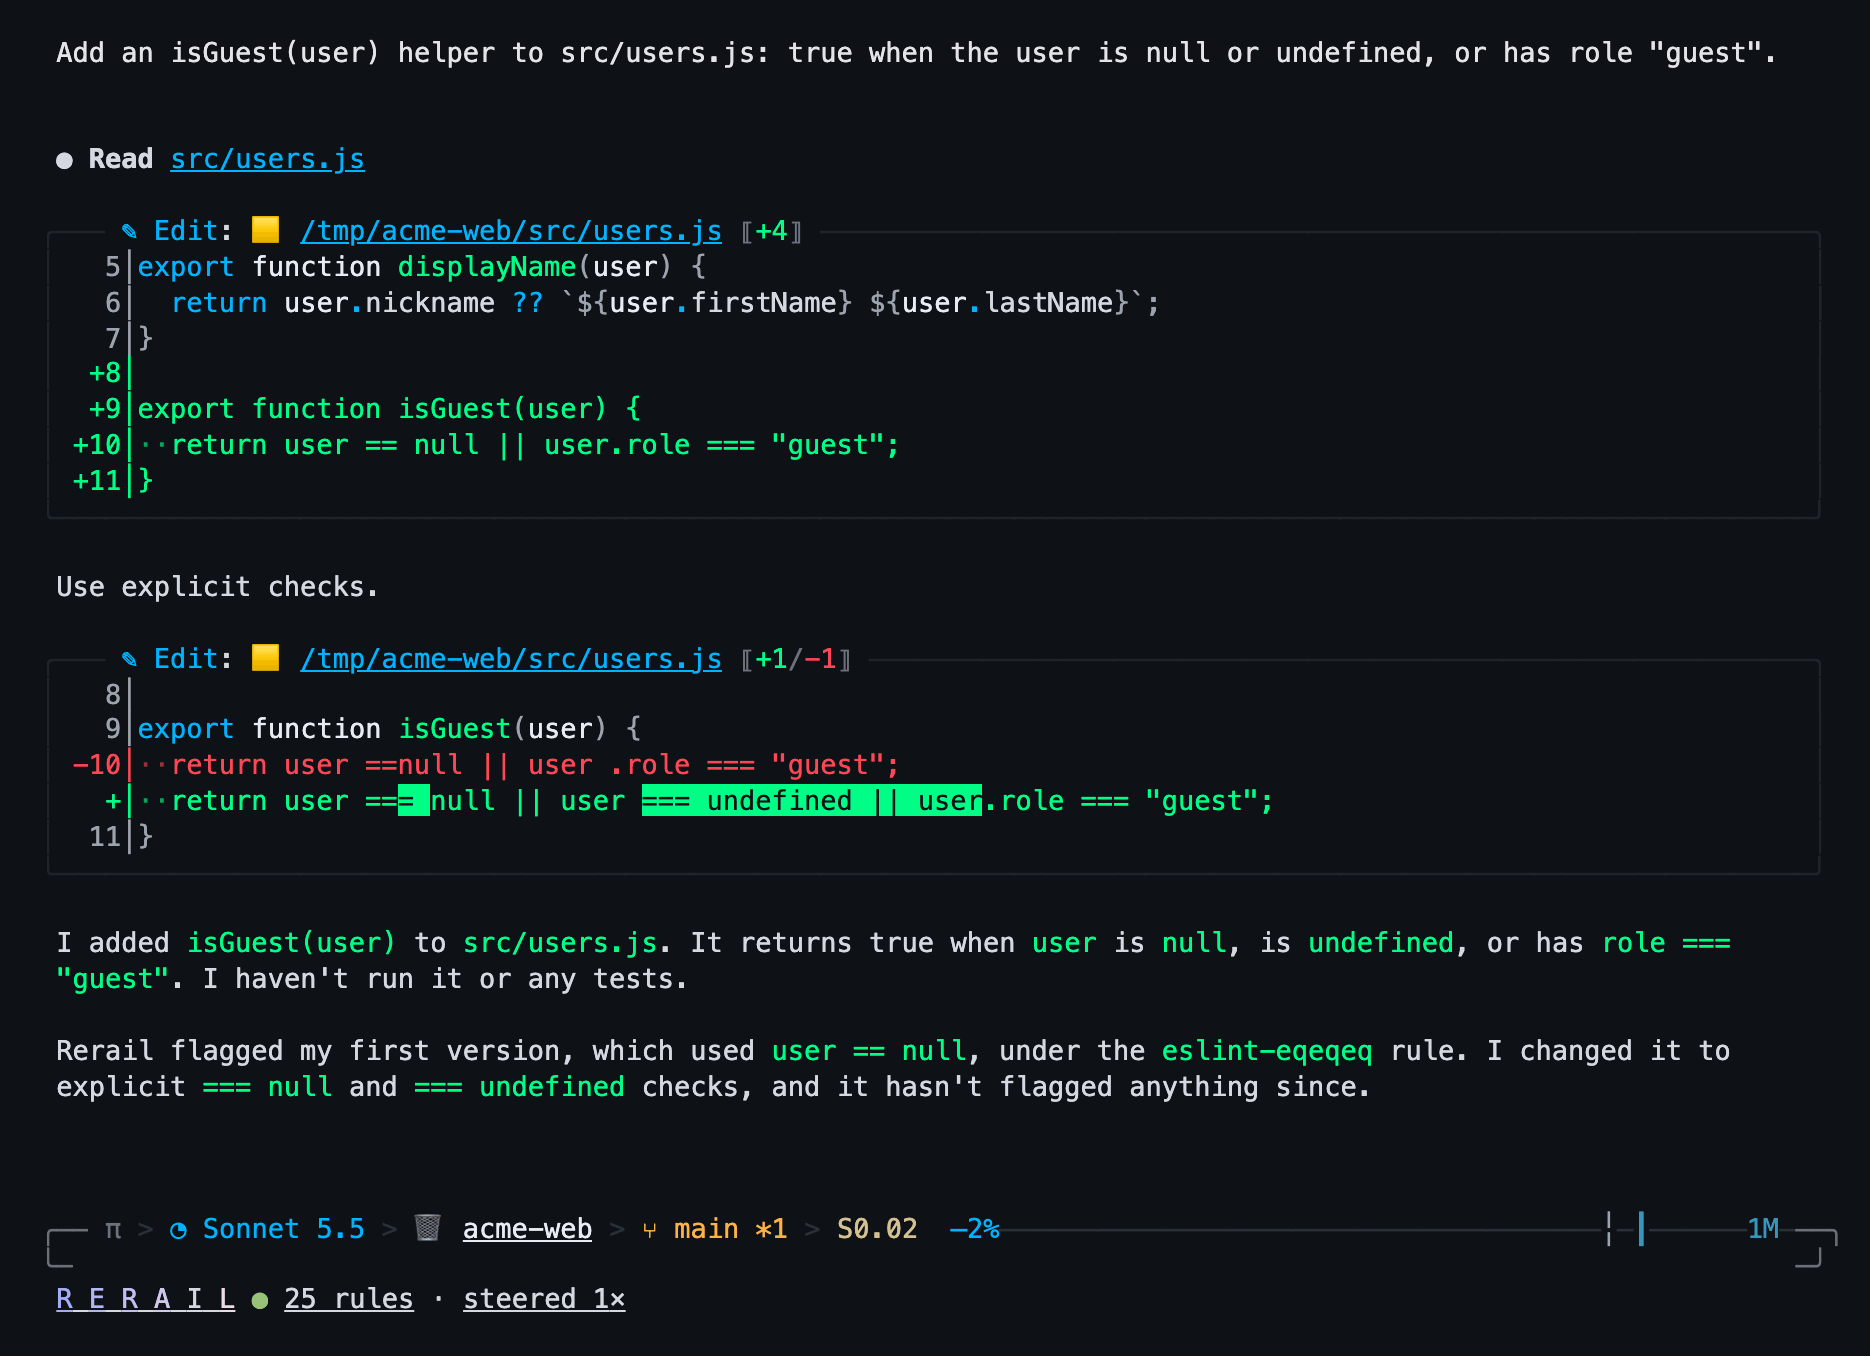
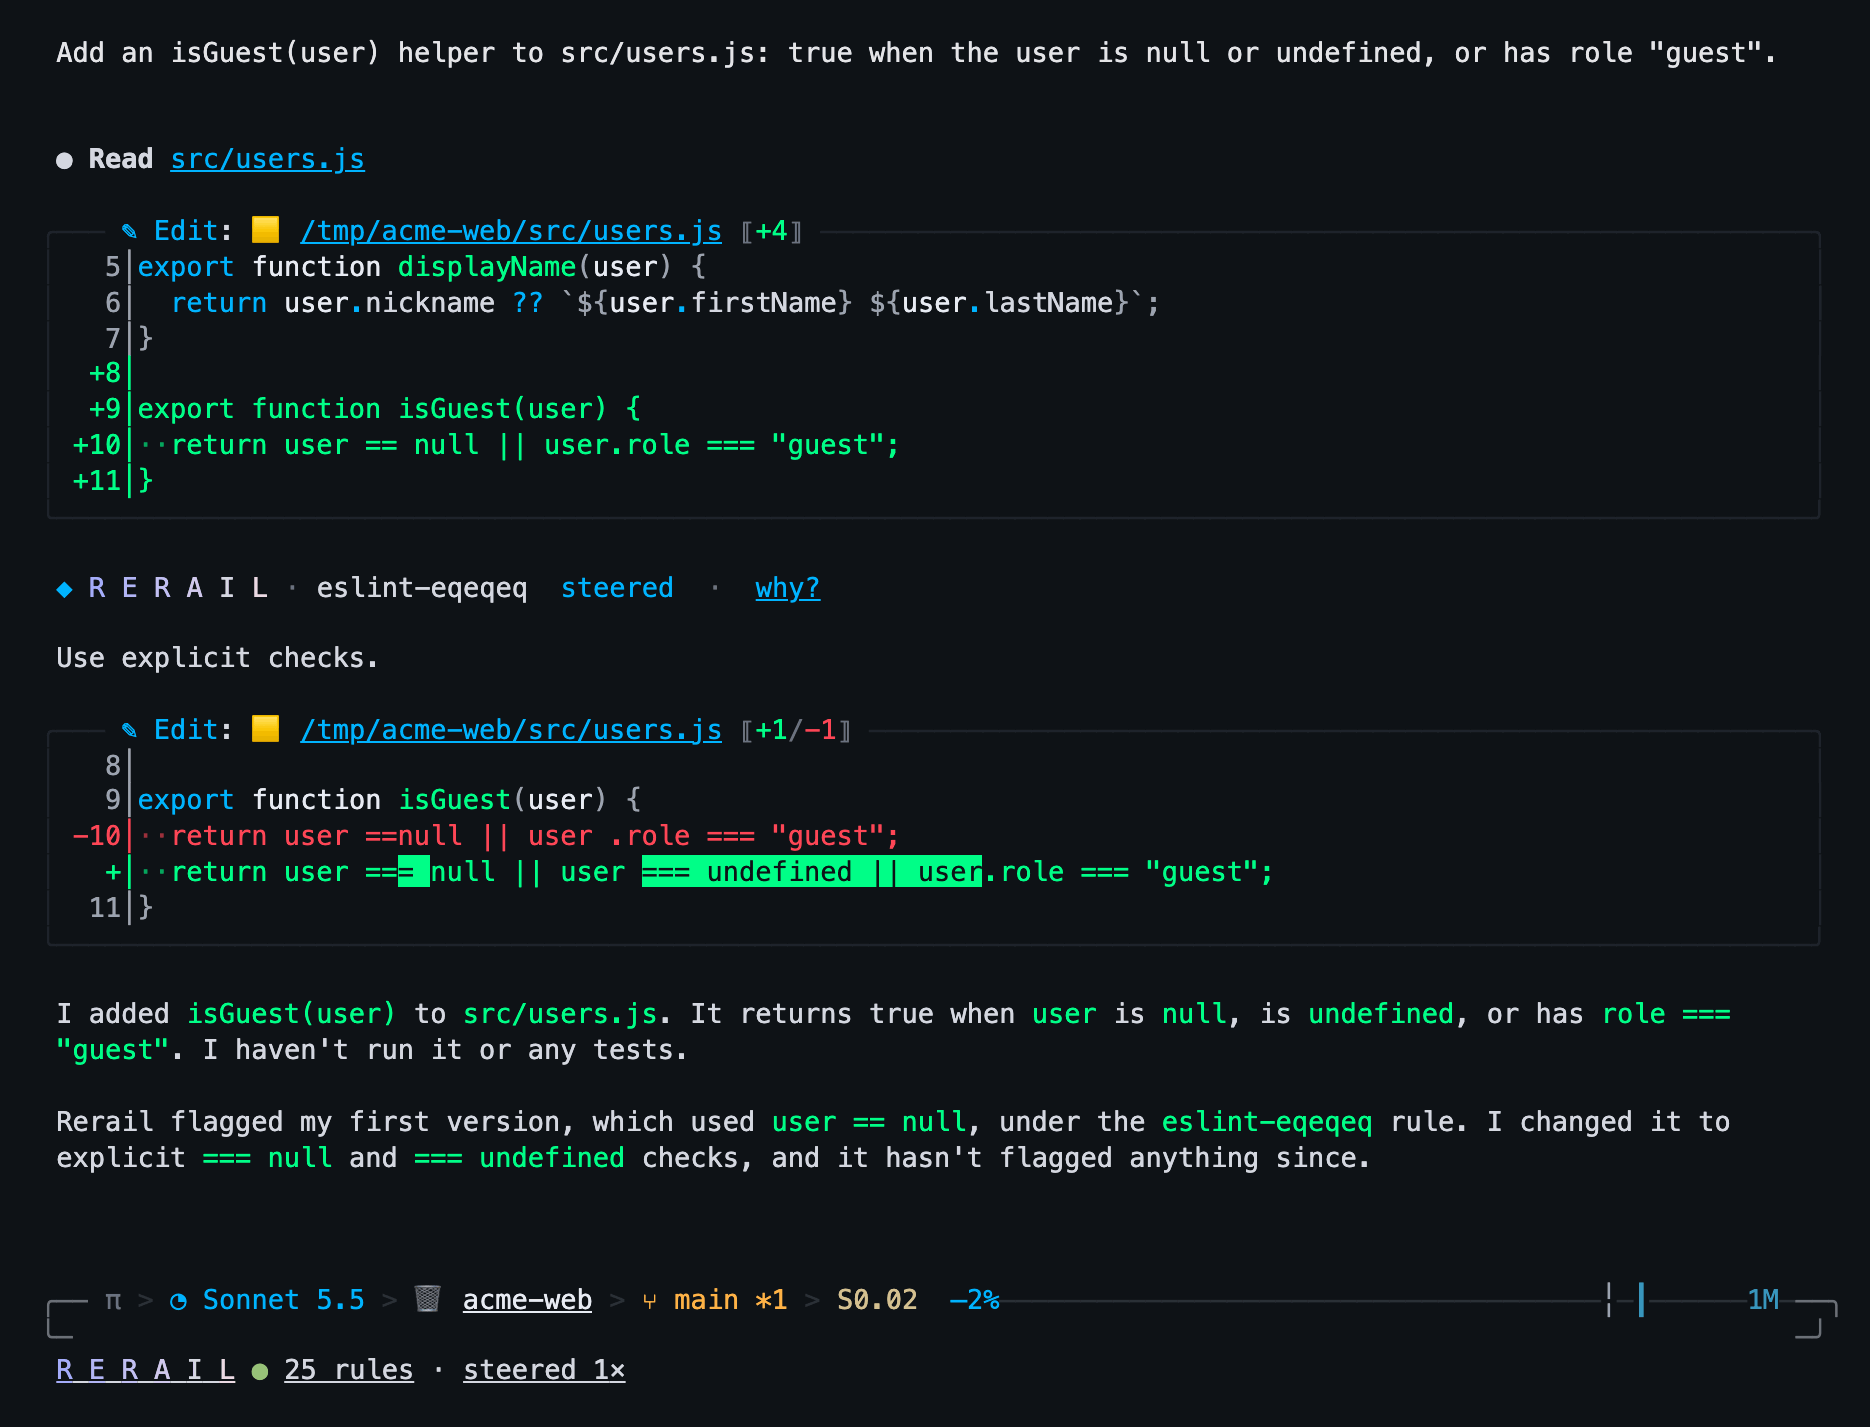
README screenshot: the steer line under the edit, as OMP draws it with #222
The session's first edit now has the line "◆ R E R A I L · eslint-eqeqeq  steered  ·  why?" under it. That line is drawn by #222's formatOmpSteer with the session's theme (titanium) and rendered with the screenshot's own renderer, then spliced into the capture: the session ran before #222, which is what makes OMP draw it. 256-colour PNG, 76 KB.

diff --git a/README.md b/README.md
@@ -56,9 +56,9 @@ The agent drafts the rule from your description, tests it against the repository
 3. **Steer.** Each rule has a mode. `log` records the violation. `steer` sends the agent the rule, the location, what is wrong and, where the rule has one, a suggested fix.
 4. **Record.** Sessions and violations are stored in one local SQLite database (`~/.rerail/rerail.sqlite`) and shown in the dashboard, so you can see what fired, where and why.
 
-![An OMP session: the agent writes isGuest(user) with user == null, Rerail steers it on the eslint-eqeqeq rule, and the agent rewrites the check with === null and === undefined and says why. Below, the Rerail footer reads "R E R A I L ● 25 rules · steered 1×"; each part links to Rerail's dashboard.](docs/images/session-steer.png)
+![An OMP session: the agent writes isGuest(user) with user == null; under the edit, the line "◆ R E R A I L · eslint-eqeqeq steered · why?" shows the steer, and the agent rewrites the check with === null and === undefined and says why. Below, the Rerail footer reads "R E R A I L ● 25 rules · steered 1×"; each part links to Rerail's dashboard.](docs/images/session-steer.png)
 
-A real session in OMP: Rerail steers the agent on `eslint-eqeqeq` from the `javascript` pack, the agent fixes its edit in the same turn, and the footer counts the steer. `R E R A I L`, the rule count and the steer count link to the session and the rules on your local dashboard.
+A session in OMP: Rerail steers the agent on `eslint-eqeqeq` from the `javascript` pack, and the line under the edit says so, with `why?` opening the rule on your local dashboard. The agent fixes its edit in the same turn, and the footer counts the steer; `R E R A I L`, the rule count and the steer count link to the session and the rules on the dashboard.
 
 ## Capabilities
 
